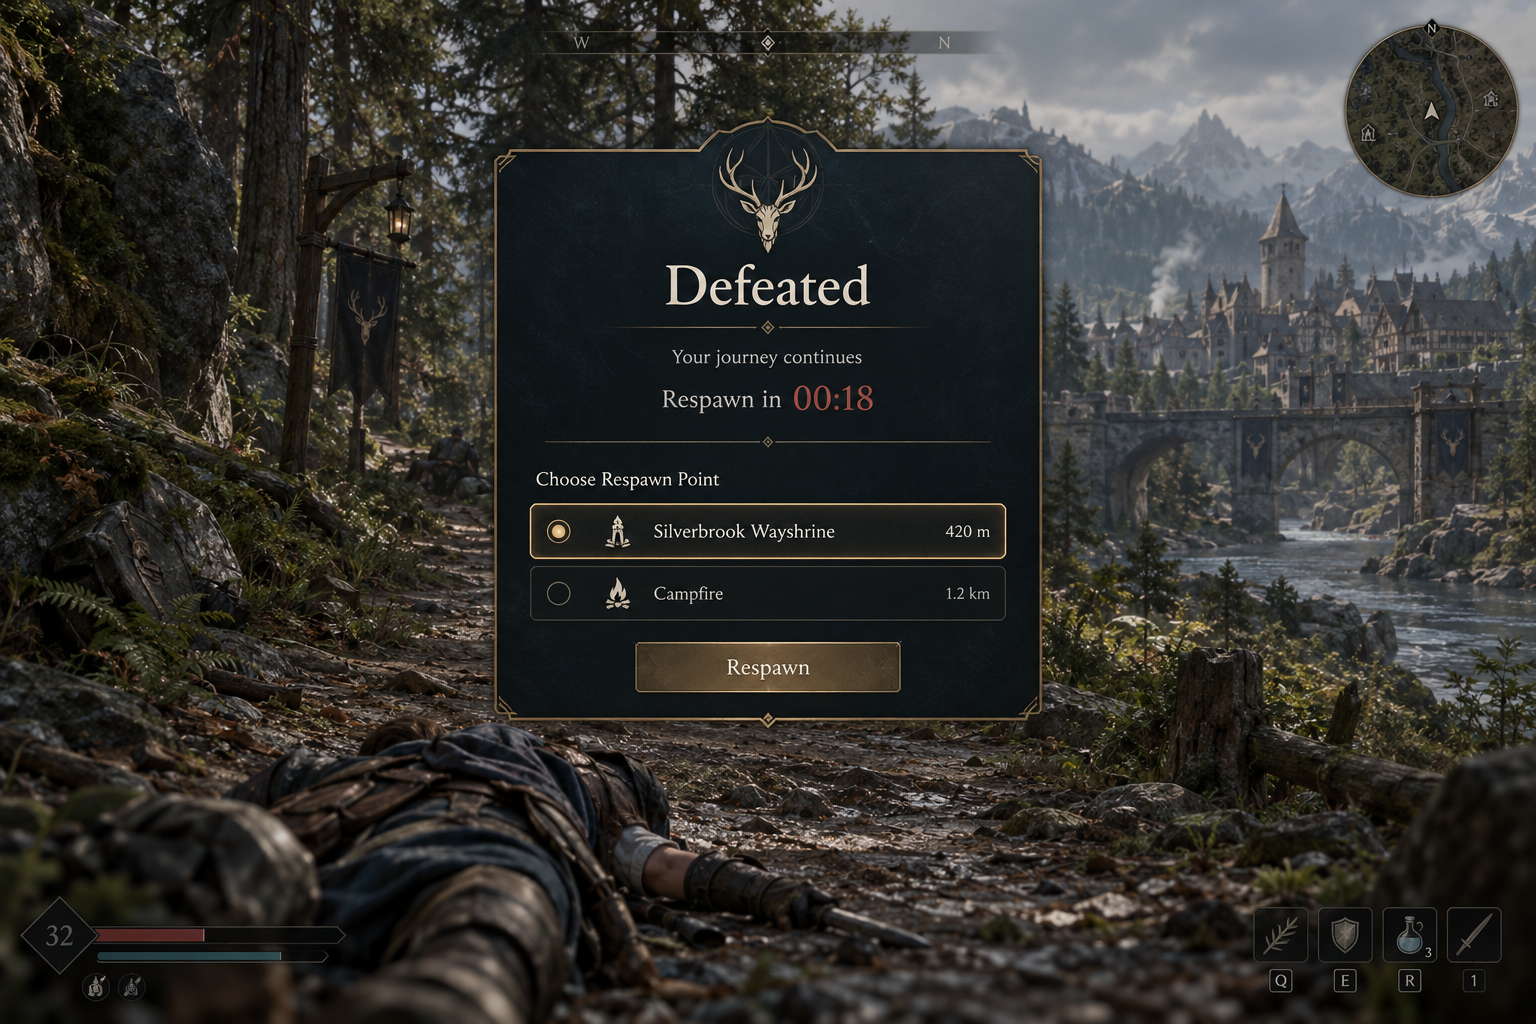
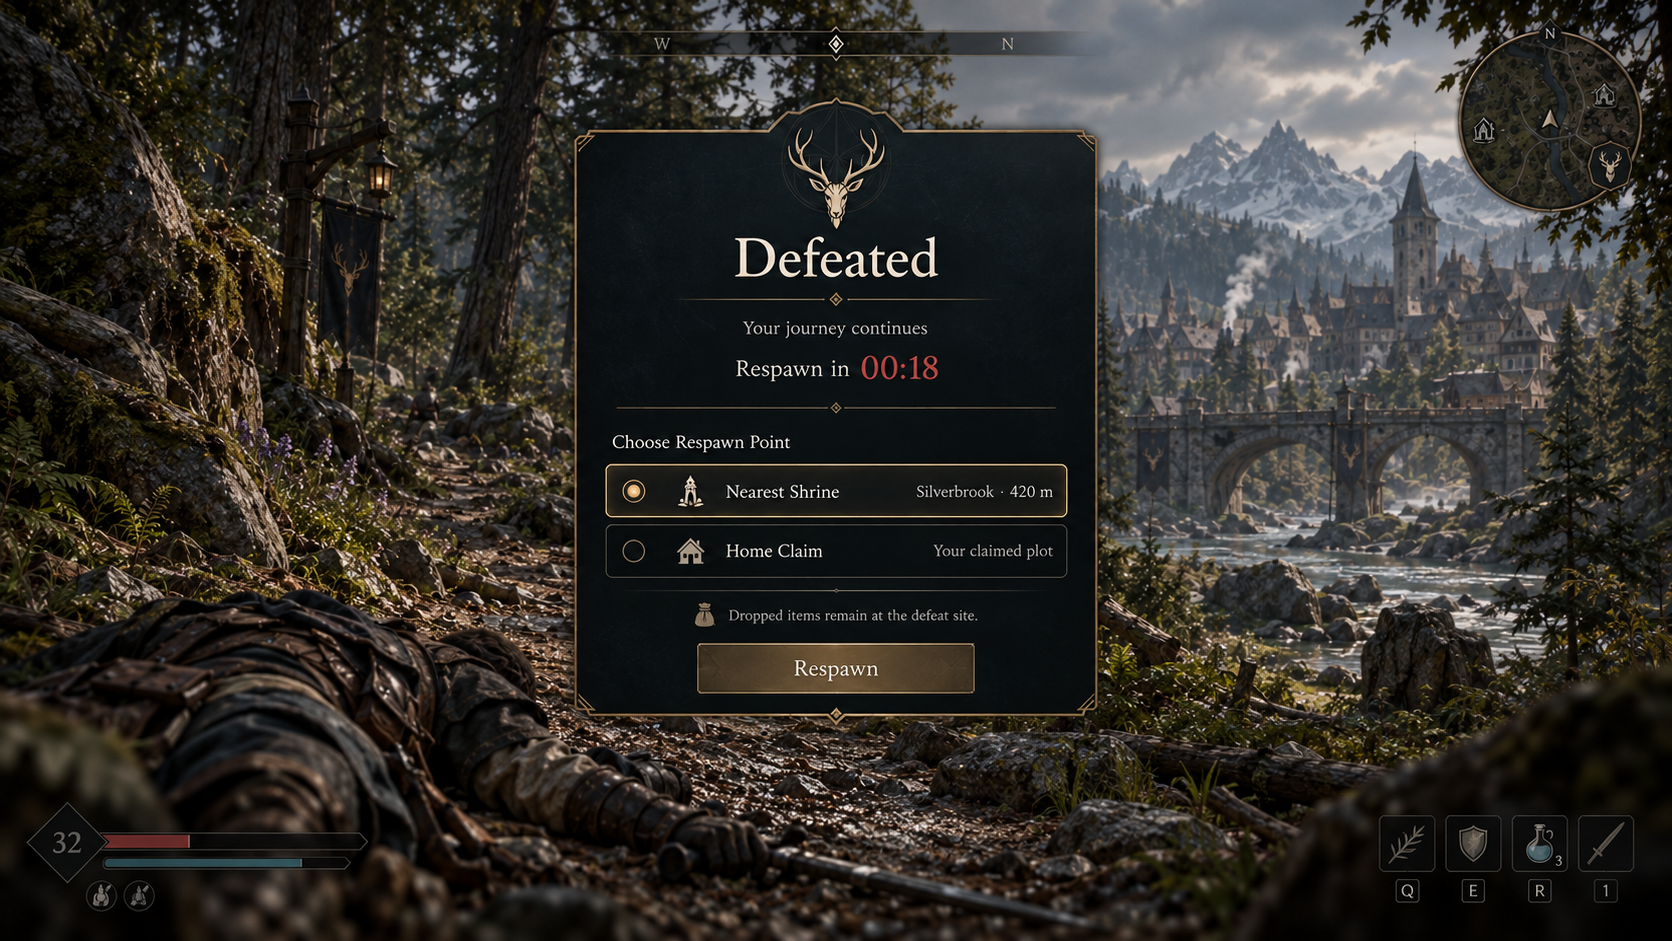
Add HUD-v1 toast recipe and defeated concepts

diff --git a/docs/Game-Design/concept-art/UI/HUD-v1/toast-recipe-defeated-prompts.md b/docs/Game-Design/concept-art/UI/HUD-v1/toast-recipe-defeated-prompts.md
@@ -1,0 +1,15 @@
+# HUD-v1 toast, recipe, and defeated concepts (Codex image generation)
+
+Same style guide as README.md. One built-in image-generation call per image; existing HUD images were used as visual style references. These are concept art, not implementation or tuning specifications. All three final images are 16:9.
+
+## hud-toast.png
+
+Use case: ui-mockup. Create exactly one polished professional MMO quality 16:9 widescreen full-screen in-game HUD screenshot concept for Legends: Shattered Frontier. The two attached images are STYLE AND WORLD REFERENCES ONLY: match their realistic Greenlands near Silverbrook, natural daylight, translucent deep slate-navy #17232A panels, fine aged-brass #A98A55 frames with clipped/chamfered corners and restrained engraved dividers, warm ivory #E8E1CE typography, moss #688267 success accent, deep crimson #A34842 warning accent, tiny pale-stag mark, fantasy serif headings and clean sans counts. Same believable leather-clad adventurer and temperate forest village world, with view dominant. Focal UI: an orderly stack of exactly four compact notification toast cards at the TOP CENTER, below the top safe edge, leaving minimap and quest tracker clear at right. Every card has a distinct square painted icon slot at left, then short clear text: 'Item gained' / 'Oak Logs x4' with oak-log icon; 'Skill gain' / 'Woodcutting +1' with axe icon; 'Quest step complete' / 'Gather 3 Oak Logs' with parchment check icon; 'Warning' / 'Inventory nearly full' with amber warning icon. Newest card most vivid, older cards subtly less opaque, even vertical spacing, crisp lettering, gentle shadow. Retain discreet health/stamina lower left, six-slot action hotbar bottom center, compact minimap upper right. No other large window or target frame. Keep all words correctly spelled, no duplications, no neon, cartoon, oversized ornament, bloom, watermark, or concept-sheet framing.
+
+## hud-recipe.png
+
+Use case: ui-mockup. Create exactly one polished professional MMO quality 16:9 widescreen full-screen in-game HUD screenshot concept for Legends: Shattered Frontier. The attached images are STYLE REFERENCES ONLY. Match their realistic Silverbrook sawmill/workshop in Greenlands daylight and HUD family: translucent deep slate-navy #17232A panels, delicate aged-brass #A98A55 outlines and clipped corners, restrained engraved rules, warm ivory #E8E1CE type, moss #688267 selection accent, fantasy serif titles, clean sans numerals, tiny pale-stag mark; painted naturalistic material icons. Large readable crafting panel centered slightly right, occupying about 60% of viewport width and 66% of height, leaving world visible. Title 'Recipes'. Across panel top category tabs 'All', 'Materials', 'Tools', 'Consumables'; Materials selected. Left column is a recipe list of four rows with icons: 'Rough Timber' selected, 'Iron Ingot', 'Leather Strip', 'Oak Planks'. Right section clearly details selected 'Rough Timber': large output preview of bundled timber, label 'Output: Rough Timber x2'; ingredients shown in two separate clear icon rows with headings 'Have / Need': 'Oak Logs 12 / 4' in moss and 'Iron Ingot 1 / 2' in subdued crimson to show shortage. Below, concise 'Station: Sawmill' requirement line, quantity selector 'Quantity 1' with minus and plus, and prominent aged-brass 'Craft' button in disabled visual state due to the missing ingot. Accurate hierarchy, rows and legible aligned text, professional spacing. Keep subtle lower-left health/stamina and bottom six-slot hotbar behind panel. No giant ornament, neon, cartoon, mobile styling, bloom, watermark, concept sheet, duplicate panels or extra text.
+
+## hud-defeated.png
+
+Use case: ui-mockup. Create exactly one polished professional MMO quality 16:9 widescreen full-screen in-game defeated HUD screenshot concept for Legends: Shattered Frontier. The attached existing defeated HUD and gameplay HUD are STYLE AND WORLD REFERENCES ONLY; make a NEW composition. Realistic fallen leather-clad adventurer on a Greenlands forest trail near Silverbrook, mossy stones, river bridge and timber-and-stone town; subdued natural light, strongly desaturated dark vignette at screen edges without hiding the world. Centered elegant overlay panel about 36% screen width and 57% height: translucent deep slate-navy #17232A, thin aged-brass #A98A55 clipped-corner frame and fine engraved rules, warm ivory #E8E1CE text, restrained deep crimson #A34842 timer accent, small pale-stag heraldry, fantasy serif title and clean sans timer/options. Large perfectly spelled title 'Defeated'. Subline 'Your journey continues'. Clear countdown 'Respawn in 00:18'. Choice heading 'Choose Respawn Point'. Exactly two radio options with icons and small location notes: 'Nearest Shrine' selected, 'Silverbrook · 420 m'; 'Home Claim' unselected, 'Your claimed plot'. Below choices, readable dropped-items note: 'Dropped items remain at the defeat site.' At bottom, prominent brass 'Respawn' button. Spacious precise hierarchy, straight aligned text and controls. Keep faint disabled hotbar and vitals in background, no gore, neon, cartoon, mobile styling, bloom, giant ornament, watermark, concept-sheet framing or additional choices.

diff --git a/docs/dependency-map.md b/docs/dependency-map.md
@@ -249,6 +249,7 @@ Development network construction: `SFConstructionNetwork.h/.cpp` owns opt-in ded
 | Task | Start here | Related files | Checks |
 | --- | --- | --- | --- |
 | Create asset concept images only | `docs/art-templates/generate-images.md`, `docs/art-templates/README.md` | Category template, `asset-planning.md`, `asset-catalog.md`, named batch from `image-jobs.md`, selected design source; versioned `GameClient/ArtSource/<AssetId>/References/` | Inspect concepts and clean asset views, verify claimed alpha/dimensions, preserve prompts/hashes/status; no 3D generation or runtime tests |
+| HUD-v1 toast, recipe, defeated concepts | `docs/Game-Design/concept-art/UI/HUD-v1/toast-recipe-defeated-prompts.md` | `hud-toast.png`, `hud-recipe.png`, `hud-defeated.png`; reference palette and layout in `README.md` | Inspect all three 16:9 images, prompt text, and dimensions; concept art only, no runtime tests. |
 | Playable construction sandbox | `docs/construction-sandbox-milestone.md` | BLD-01; construction geometry tool/test; SBX-02 exact Unreal write set; model-session handoff | `py -3 tests/test_construction_geometry.py`, `py -3 tests/test_construction_compatibility.py`, header generator `--check`; focused `ShatteredFrontier.Construction.` editor automation. See evidence for opt-in map/commands/limits; preserve E1 defaults/live server. |
 | Define structural voxel geometry or accept final construction meshes | `docs/decisions/BLD-01-voxel-geometry-interface.md` | Construction §§3.1–3.6/8/15/16, Construction Integration §§3–4/8, construction art contract | GEO-01 canonical shape/brush manifests and GEO-02 numerical seam/clearance fixtures before final meshes; GEO-03 targeted engine adapter checks before engine readiness. Documentation-only changes need no runtime tests. |
 | Generate a Blender model from an image | `docs/art-templates/generate-model.md` | Category template; asset-specific `GameClient/ArtSource/` README and generator | Inspect saved-source renders and exchange-format reimports; document scale, provenance and limitations |
